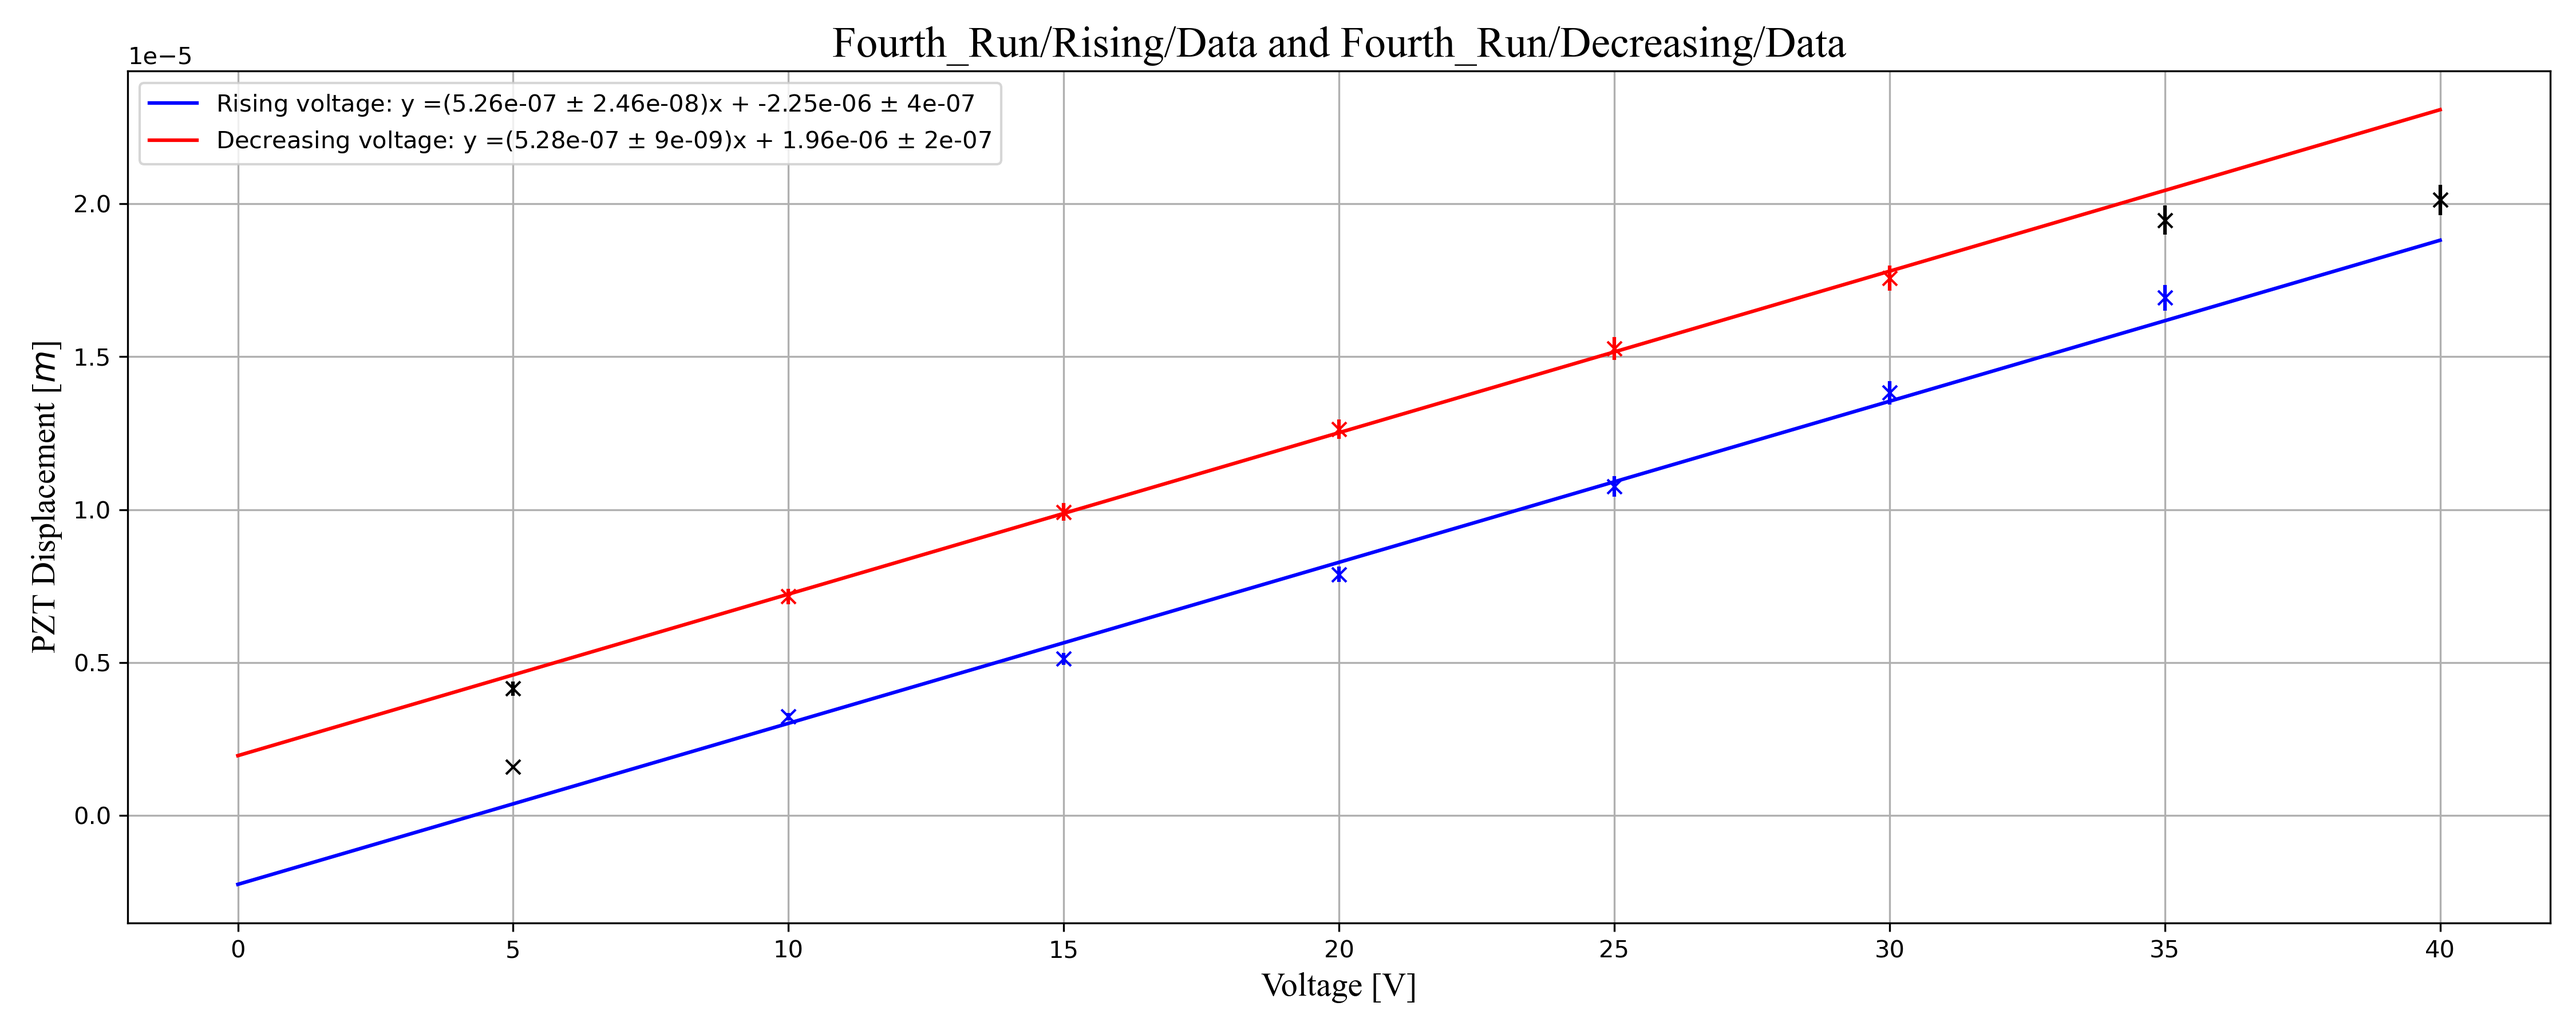
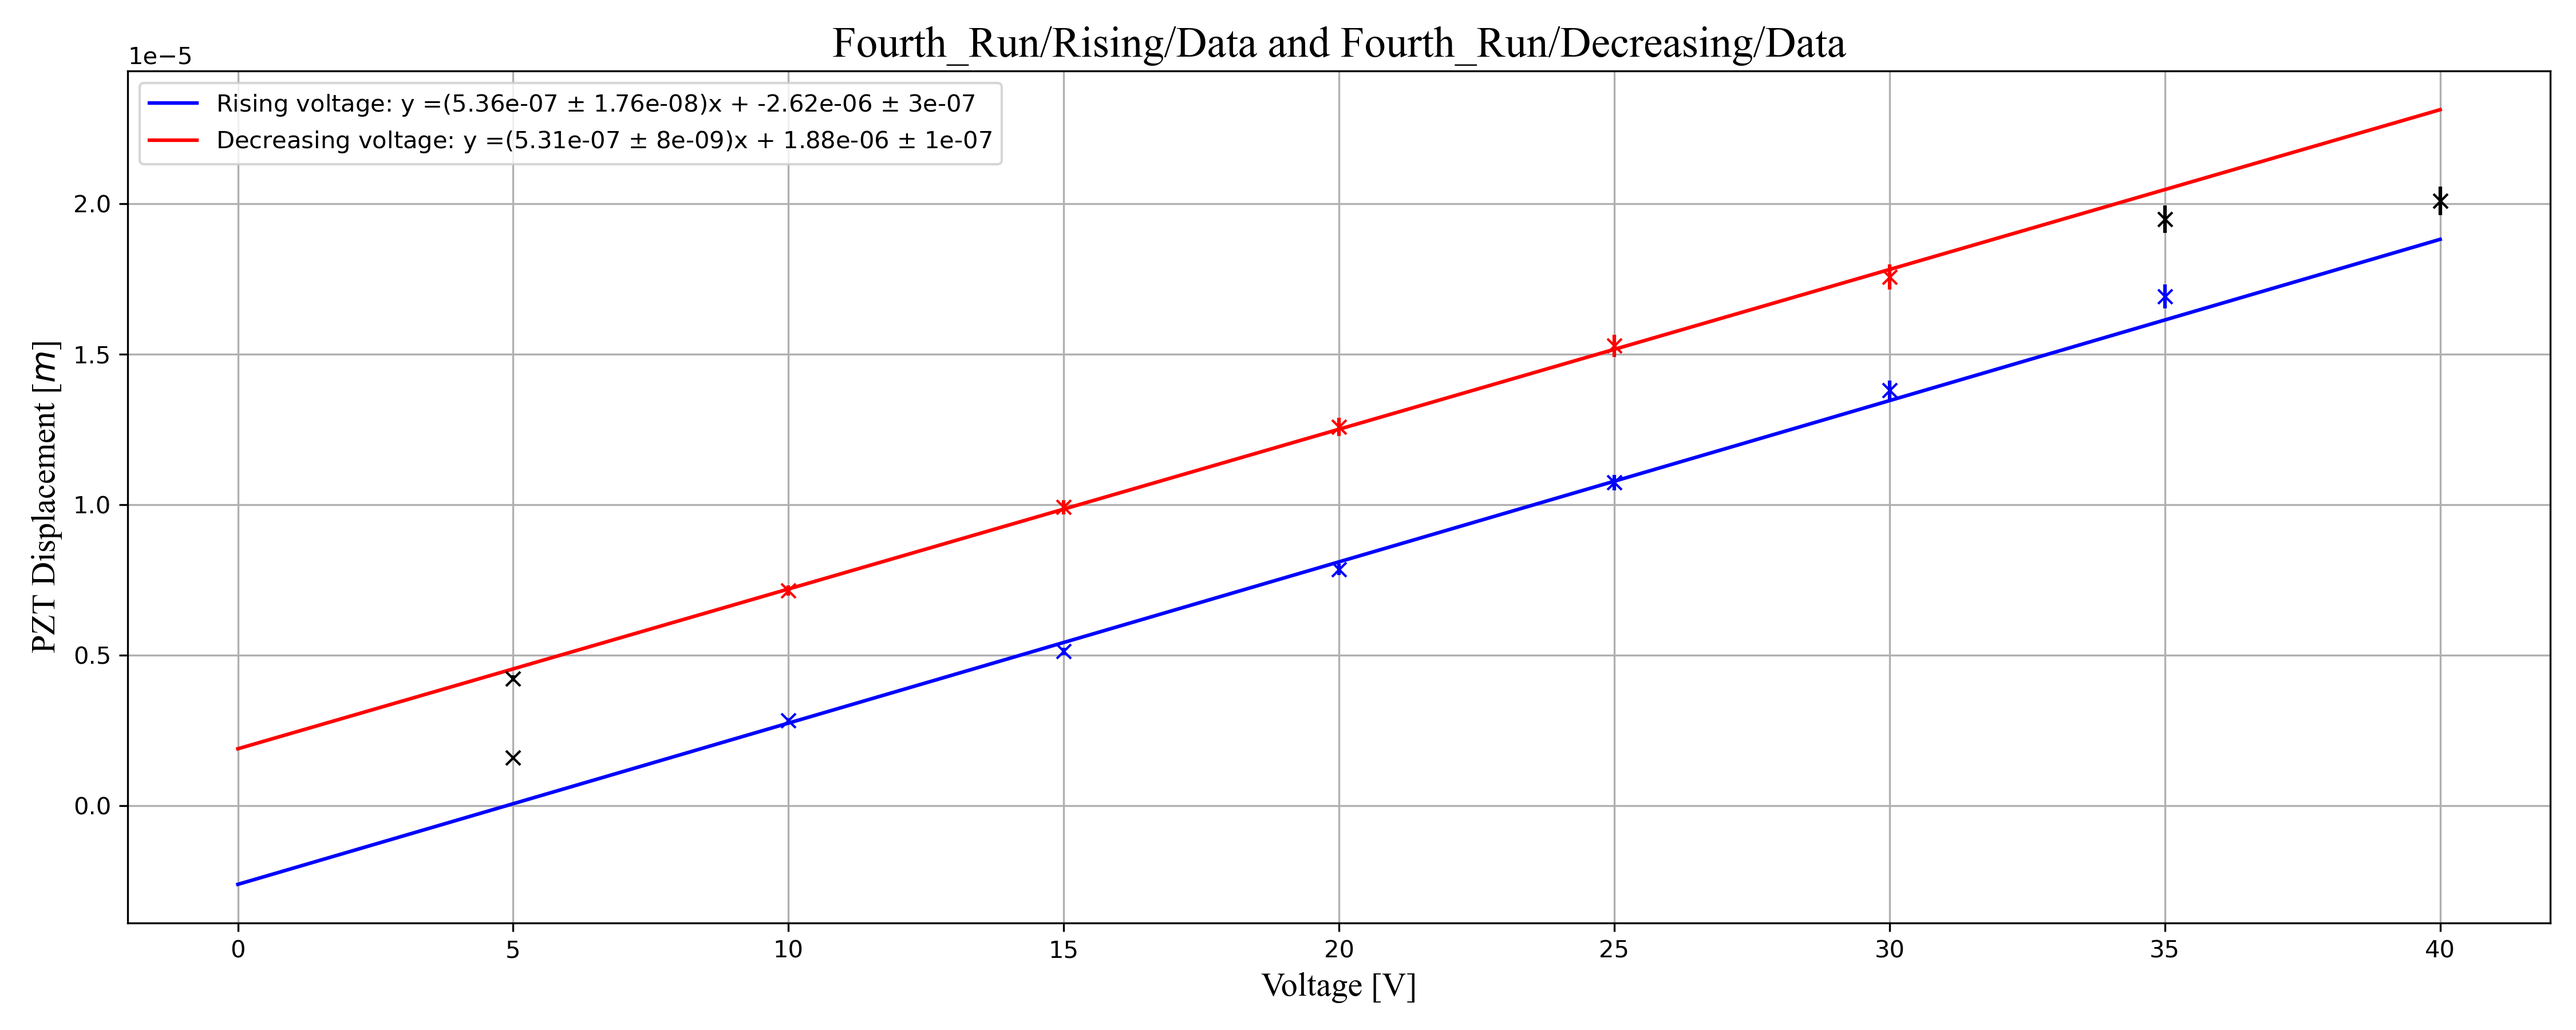
weighted change

diff --git a/TVHolography.py b/TVHolography.py
@@ -10,13 +10,13 @@ from Functions import gaussian_peak, read_data, find_peaks,\
     fit_gaussian, weighted_arithmetic_mean,\
     distance_conversion, reduced_chi_square,\
     linear_function, find_residual
-from Fourth_Run.Parameters import SAVGOL_FILTER_PARAMETERS_1,\
+from Second_Run.Parameters import SAVGOL_FILTER_PARAMETERS_1,\
     SAVGOL_FILTER_PARAMETERS_2, PEAK_PROMINENCE
 import numpy as np
 import matplotlib.pyplot as plt
 import sys
 
-RUN = "Fourth_Run"
+RUN = "Second_Run"
 
 
 FILENAME_1 = "{0}/Rising/Data/".format(RUN)
@@ -75,8 +75,8 @@ def draw_plot(title, data, savgol_parameter, filename,
     peak_diff = np.diff(filtered_peaks)
     fringe_spacing_guess = np.average(peak_diff)
 
-    sigmas = []
-    mean_peak = []
+    sigmas = np.array([])
+    mean_peak = np.array([])
 
     # plot a gaussian at each peack using the average fringe spacing as the width
     for peak in filtered_peaks:
@@ -84,14 +84,11 @@ def draw_plot(title, data, savgol_parameter, filename,
             data[:, 0] < peak + fringe_spacing_guess / 2)
             & (data[:, 0] > peak - fringe_spacing_guess / 2))],
             peak, axs)
-        sigmas.append(uncertainty)
-        mean_peak.append(mean)
+        sigmas = np.append(sigmas, uncertainty)
+        mean_peak = np.append(mean_peak, mean)
 
     fringe_spacing = np.diff(mean_peak)
-    fringe_spacing_uncertainty = []
-    for i in range(len(mean_peak) - 1):
-        uncertainty = np.sqrt(sigmas[i]**2 + sigmas[i + 1]**2)
-        fringe_spacing_uncertainty.append(uncertainty)
+    fringe_spacing_uncertainty = np.sqrt(sigmas[1:]**2 + sigmas[:-1]**2)
 
     # mean_fringe_spacing, mean_fringe_spacing_sigma = weighted_arithmetic_mean(
     #     fringe_spacing, fringe_spacing_uncertainty)
@@ -101,18 +98,25 @@ def draw_plot(title, data, savgol_parameter, filename,
     uncertainty_fringe_spacing = np.std(
         fringe_spacing) / np.sqrt(len(fringe_spacing))
 
+    # weighted average spacing in pixels
+    w_average_fringe_spacing, weighted_err = np.average(fringe_spacing,
+                                        weights=1/(fringe_spacing_uncertainty**2),
+                                        returned=True)
+    w_uncertainty_fringe_spacing = 1/np.sqrt(weighted_err)
+
     # pixels to metres
     pix_to_m = 465e2
     uncertainty_pix_to_m = 11e2
 
-    metre_fringe_spacing = average_fringe_spacing / pix_to_m
+    # can switch between average and weighted average by adding a w_ in front of variables
+    metre_fringe_spacing = w_average_fringe_spacing / pix_to_m
 
-    uncertainty_metre_fringe_spacing = np.sqrt((1/pix_to_m)**2 * uncertainty_fringe_spacing**2 +
-                                               (average_fringe_spacing/(pix_to_m**2))**2 *
+    uncertainty_metre_fringe_spacing = np.sqrt((1/pix_to_m)**2 * w_uncertainty_fringe_spacing**2 +
+                                               (w_average_fringe_spacing/(pix_to_m**2))**2 *
                                                uncertainty_pix_to_m**2)
 
-    displacement, displ_err = distance_conversion(average_fringe_spacing,
-                                                  uncertainty_fringe_spacing)
+    displacement, displ_err = distance_conversion(w_average_fringe_spacing,
+                                                  w_uncertainty_fringe_spacing)
 
     axs.grid()
     axs.set_xlim((np.min(data[:, 0]), np.max(data[:, 0])))
